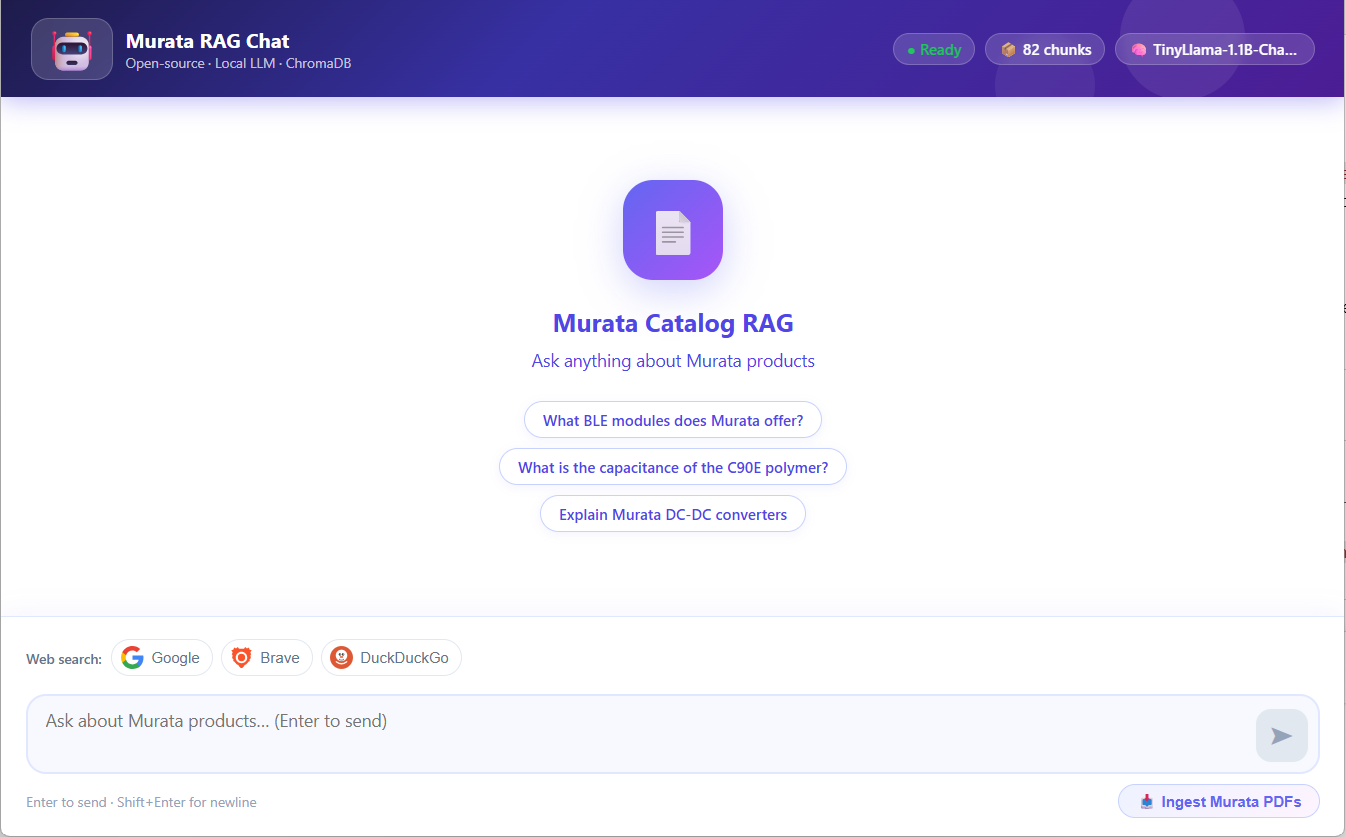
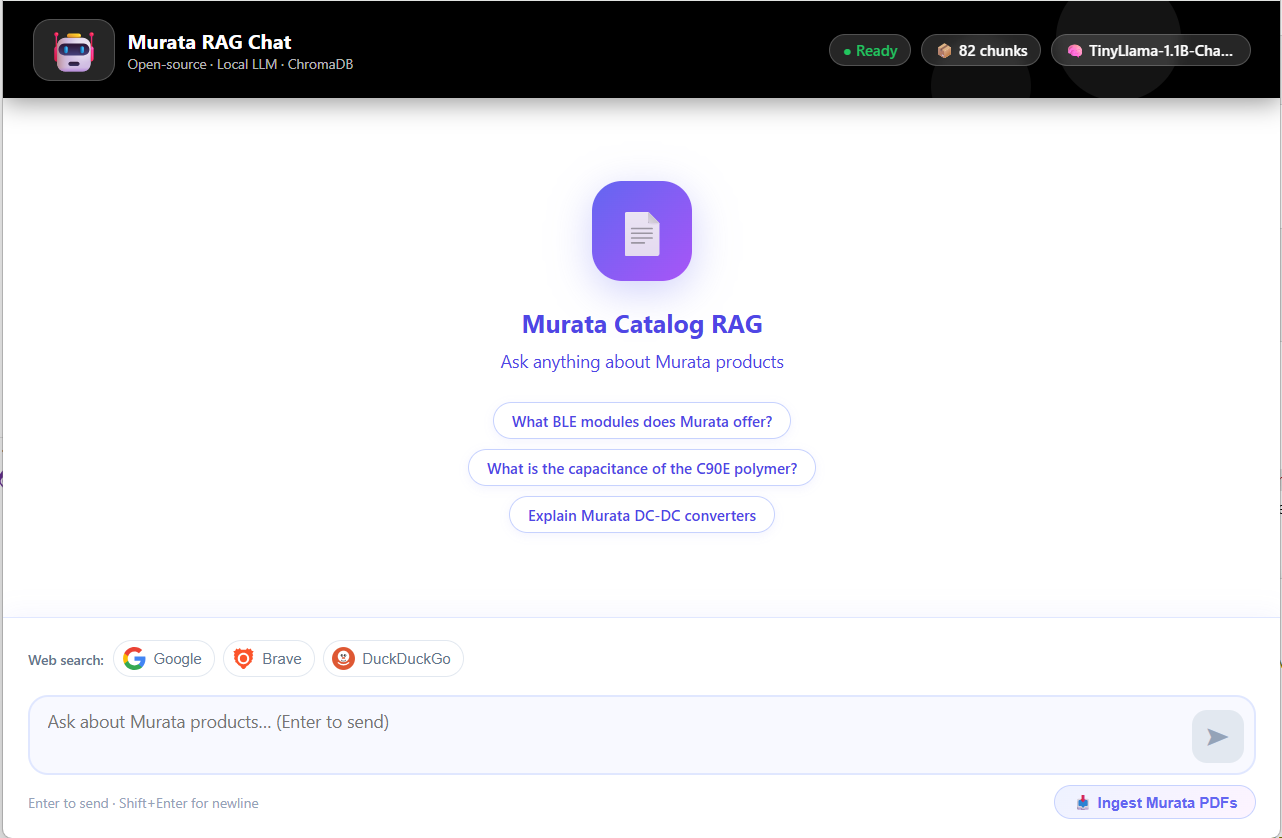
readme

diff --git a/frontend/src/App.tsx b/frontend/src/App.tsx
@@ -88,12 +88,12 @@ export default function App() {
 
       {/* Header — gradient */}
       <header style={{
-        background: 'linear-gradient(135deg, #1e1b4b 0%, #3730a3 40%, #4c1d95 100%)',
+        background: '#000000',
         padding: '14px 24px',
         display: 'flex',
         alignItems: 'center',
         justifyContent: 'space-between',
-        boxShadow: '0 4px 20px rgba(79,70,229,0.35)',
+        boxShadow: '0 4px 20px rgba(0,0,0,0.4)',
         flexShrink: 0,
         position: 'relative',
         overflow: 'hidden',
